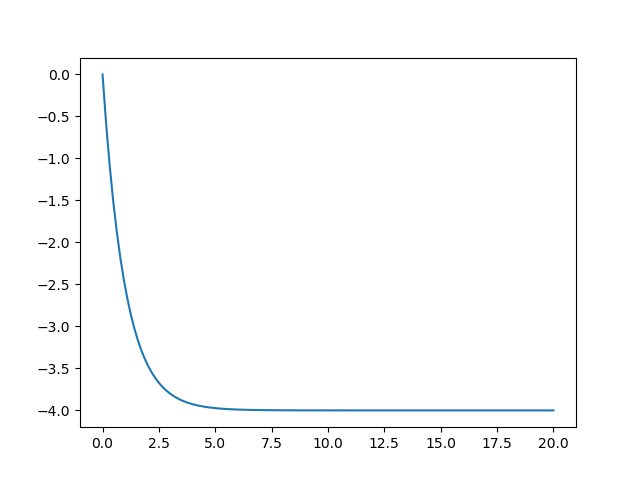
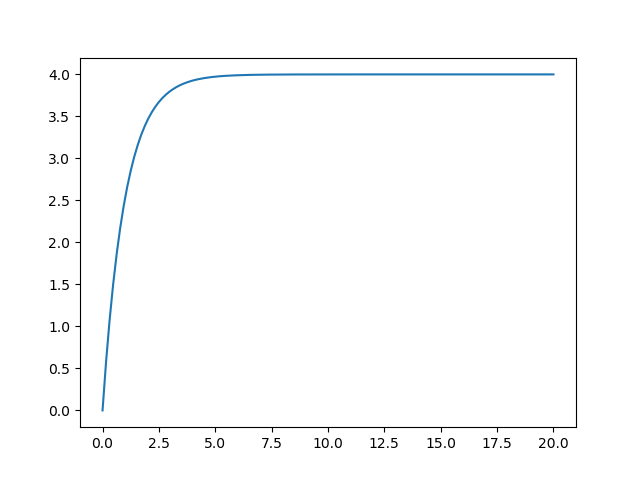
second commit
off by a negative sign in weak form. whoops.

diff --git a/python/constantinput.py b/python/constantinput.py
@@ -22,7 +22,7 @@ u = TestFunction(W)
 
 der = v.dx(0)
 
-weak_form  =  der*u*dx + a*v*u*dx + I*u*dx
+weak_form  =  der*u*dx + a*v*u*dx - I*u*dx
 
 solve(weak_form == 0, v, bc)
 
